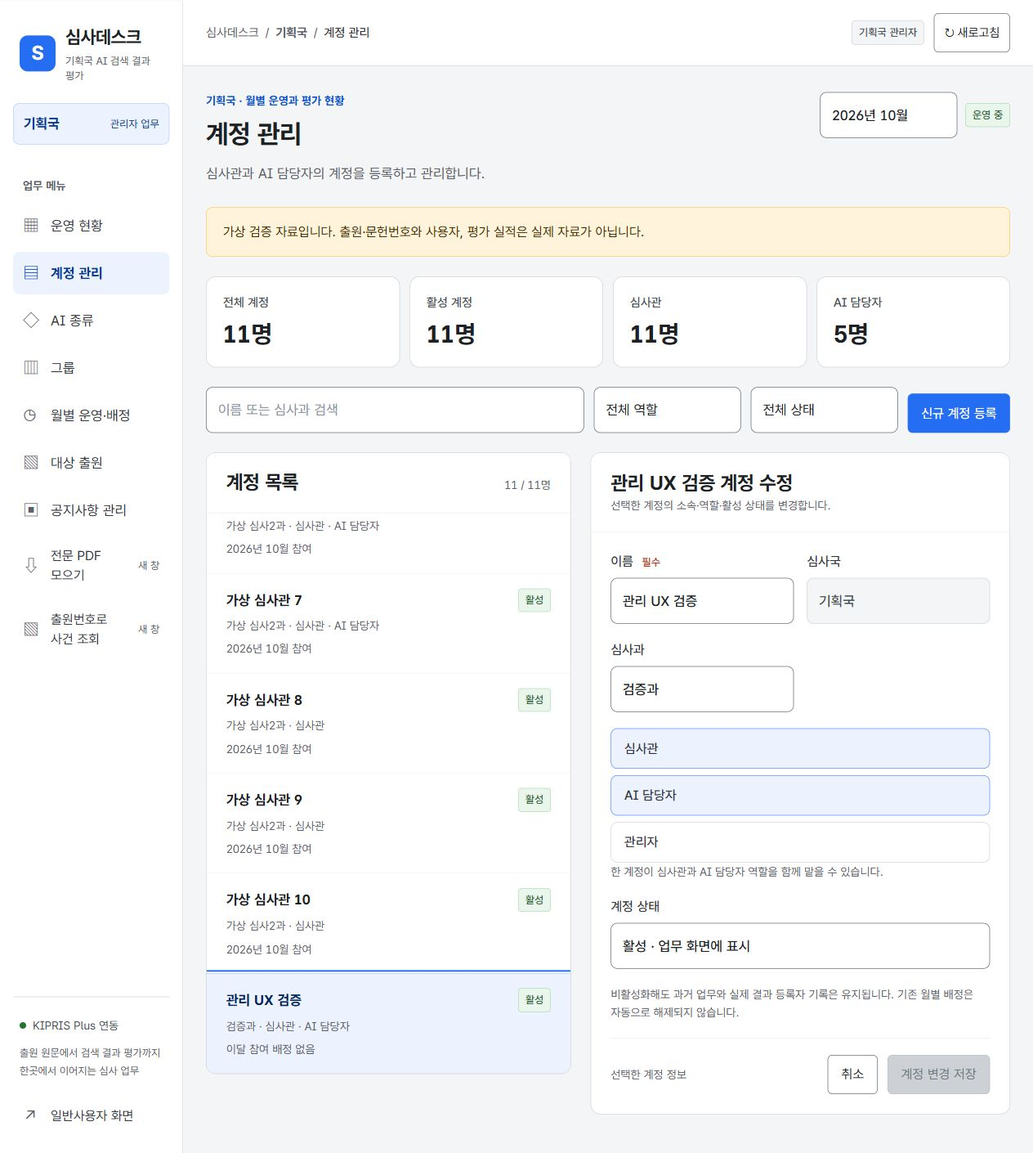
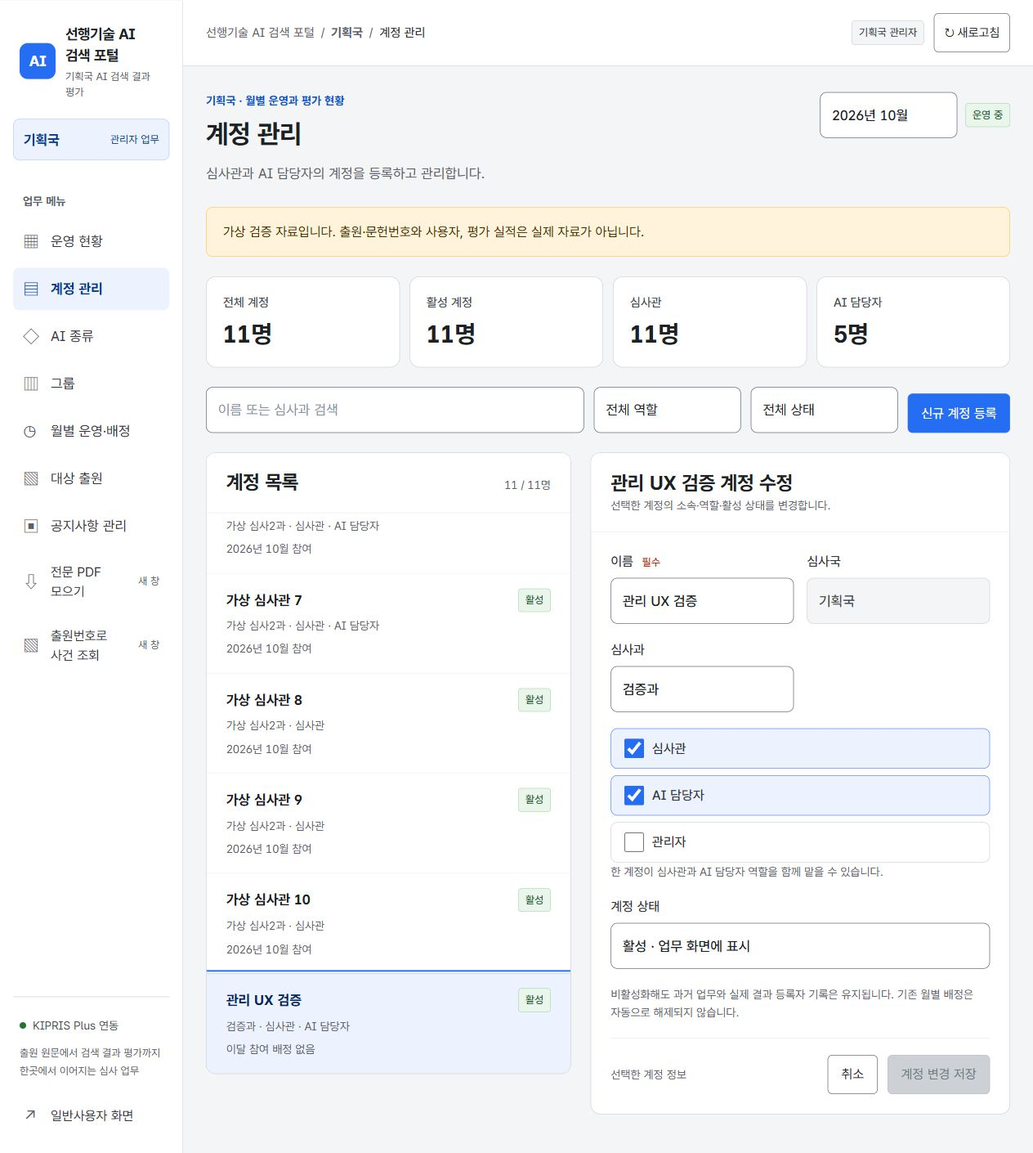
Improve admin account and AI method editing dialogs

diff --git a/app/evaluation/admin-workspace.tsx b/app/evaluation/admin-workspace.tsx
@@ -1,6 +1,6 @@
 'use client';
 
-import { useEffect, useMemo, useState } from 'react';
+import { useEffect, useMemo, useRef, useState } from 'react';
 import {
   caseStatus, emptyMonth, getStatistics,
   type EvaluationAction, type EvaluationCase, type EvaluationGroup, type EvaluationState,
@@ -9,6 +9,7 @@ import {
 import { getAdminReadiness } from '@/app/lib/admin-guidance';
 import { exportWorkbook } from '@/app/lib/export-workbook';
 import type { Bureau } from '@/app/lib/bureaus';
+import AccessibleDialog from '@/app/components/accessible-dialog';
 import NoticeManager from './notice-manager';
 import './admin.css';
 
@@ -28,8 +29,9 @@ export type AdminProps = {
   save: Save; dirty: (value: boolean) => void; hasUnsaved: boolean;
   section: AdminSection; onNavigate: (section: AdminSection) => void;
   selectMonth: (id: string) => void; notify: (message: string) => void;
+  saveFeedback?: React.ReactNode;
 };
-type FormProps = Pick<AdminProps, 'state' | 'month' | 'bureau' | 'busy' | 'save' | 'dirty' | 'hasUnsaved' | 'onNavigate'>;
+type FormProps = Pick<AdminProps, 'state' | 'month' | 'bureau' | 'busy' | 'save' | 'dirty' | 'hasUnsaved' | 'onNavigate' | 'saveFeedback'>;
 const roles: { value: Role; label: string }[] = [{ value: 'examiner', label: '심사관' }, { value: 'ai', label: 'AI 담당자' }, { value: 'admin', label: '관리자' }];
 const percent = (value: number | null) => value === null ? '—' : `${(value * 100).toFixed(1)}%`;
 const monthLabel = (id: string) => `${id.slice(0, 4)}년 ${Number(id.slice(5))}월`;
@@ -89,39 +91,135 @@ function AccountManager(props: FormProps) {
   function open(id: string) { if (confirmDiscard(hasUnsaved)) { dirty(false); setEditing(id); } }
   return <>
     <div className="adm-metrics"><Metric label="전체 계정" value={`${state.users.length}명`} /><Metric label="활성 계정" value={`${state.users.filter((user) => user.active).length}명`} /><Metric label="심사관" value={`${state.users.filter((user) => user.roles.includes('examiner')).length}명`} /><Metric label="AI 담당자" value={`${state.users.filter((user) => user.roles.includes('ai')).length}명`} /></div>
-    <div className="adm-toolbar"><div className="adm-search"><label className="sr-only" htmlFor="adm-account-search">이름 또는 심사과 검색</label><input id="adm-account-search" className="krds-input" placeholder="이름 또는 심사과 검색" value={query} onChange={(event) => setQuery(event.target.value)} /></div><select className="krds-form-select adm-filter" aria-label="계정 역할 필터" value={role} onChange={(event) => setRole(event.target.value)}><option value="all">전체 역할</option>{roles.map((entry) => <option key={entry.value} value={entry.value}>{entry.label}</option>)}</select><select className="krds-form-select adm-filter" aria-label="계정 활성 상태 필터" value={status} onChange={(event) => setStatus(event.target.value)}><option value="all">전체 상태</option><option value="active">활성</option><option value="inactive">비활성</option></select><Button primary disabled={busy} onClick={() => open('new')}>신규 계정 등록</Button></div>
-    <div className="adm-split"><section className="adm-list"><div className="adm-list-head"><h2>계정 목록</h2><span className="adm-secondary">{visible.length} / {state.users.length}명</span></div>
-      {visible.length ? visible.map((user) => <button type="button" className={`adm-list-item ${editing === user.id ? 'is-selected' : ''}`} key={user.id} disabled={busy} aria-pressed={editing === user.id} onClick={() => open(user.id)}><span className="adm-name">{user.name}<Pill tone={user.active ? 'is-active' : 'is-inactive'}>{user.active ? '활성' : '비활성'}</Pill></span><span className="adm-secondary">{user.division || '심사과 미입력'} · {user.roles.map((value) => roles.find((entry) => entry.value === value)?.label).join(' · ')}</span><span className="adm-meta">{month.participants.some((entry) => entry.userId === user.id) ? `${monthLabel(month.id)} 참여` : '이달 참여 배정 없음'}</span></button>) : <Empty title={state.users.length ? '검색 조건에 맞는 계정이 없습니다.' : '등록된 계정이 없습니다.'} actions={state.users.length ? <Button onClick={() => { setQuery(''); setRole('all'); setStatus('all'); }}>검색 조건 초기화</Button> : undefined} />}
-    </section><section className="adm-editor">{editing === 'new' || selected ? <AccountEditor key={editing} user={selected} bureau={props.bureau} busy={busy} save={props.save} dirty={dirty} onClose={() => { dirty(false); setEditing(null); }} /> : <Empty title="관리할 계정을 선택하세요.">목록에서 이름을 선택하면 해당 계정의 소속과 역할을 수정할 수 있습니다.</Empty>}</section></div>
+    <div className="adm-toolbar"><div className="adm-search"><label className="sr-only" htmlFor="adm-account-search">이름 또는 심사과 검색</label><input id="adm-account-search" className="krds-input" placeholder="이름 또는 심사과 검색" value={query} onChange={(event) => setQuery(event.target.value)} /></div><select className="krds-form-select adm-filter" aria-label="계정 역할 필터" value={role} onChange={(event) => setRole(event.target.value)}><option value="all">전체 역할</option>{roles.map((entry) => <option key={entry.value} value={entry.value}>{entry.label}</option>)}</select><select className="krds-form-select adm-filter" aria-label="계정 활성 상태 필터" value={status} onChange={(event) => setStatus(event.target.value)}><option value="all">전체 상태</option><option value="active">활성</option><option value="inactive">비활성</option></select><Button primary disabled={busy} aria-haspopup="dialog" onClick={() => open('new')}>신규 계정 등록</Button></div>
+    <section className="adm-list adm-account-list"><div className="adm-list-head"><h2>계정 목록</h2><span className="adm-secondary">{visible.length} / {state.users.length}명</span></div>
+      {visible.length ? visible.map((user) => <button type="button" className={`adm-list-item ${editing === user.id ? 'is-selected' : ''}`} key={user.id} disabled={busy} aria-haspopup="dialog" onClick={() => open(user.id)}><span className="adm-name">{user.name}<Pill tone={user.active ? 'is-active' : 'is-inactive'}>{user.active ? '활성' : '비활성'}</Pill></span><span className="adm-secondary">{user.division || '심사과 미입력'} · {user.roles.map((value) => roles.find((entry) => entry.value === value)?.label).join(' · ')}</span><span className="adm-meta">{month.participants.some((entry) => entry.userId === user.id) ? `${monthLabel(month.id)} 참여` : '이달 참여 배정 없음'}</span></button>) : <Empty title={state.users.length ? '검색 조건에 맞는 계정이 없습니다.' : '등록된 계정이 없습니다.'} actions={state.users.length ? <Button onClick={() => { setQuery(''); setRole('all'); setStatus('all'); }}>검색 조건 초기화</Button> : undefined} />}
+    </section>
+    {(editing === 'new' || selected) && <AccountEditor key={editing} user={selected} bureau={props.bureau} busy={busy} save={props.save} dirty={dirty} saveFeedback={props.saveFeedback} onClose={() => { dirty(false); setEditing(null); }} />}
   </>;
 }
 
-export function AccountEditor({ user, bureau, busy, save, dirty, onClose }: {
-  user?: EvaluationUser; bureau?: Bureau; busy: boolean; save: Save; dirty: (value: boolean) => void; onClose: () => void;
+export function AccountEditor({ user, bureau, busy, save, dirty, onClose, saveFeedback }: {
+  user?: EvaluationUser; bureau?: Bureau; busy: boolean; save: Save; dirty: (value: boolean) => void; onClose: () => void; saveFeedback?: React.ReactNode;
 }) {
   const original = useMemo(() => user ? { ...user, bureau: bureau || user.bureau } : { name: '', bureau: bureau || '', division: '', roles: ['examiner'] as Role[], active: true }, [user, bureau]);
   const [form, setForm] = useState(original);
+  const [submitFailed, setSubmitFailed] = useState(false);
+  const feedback = useRef<HTMLDivElement>(null);
   const changed = !same(form, original);
   useEffect(() => dirty(changed), [changed, dirty]);
+  useEffect(() => { if (submitFailed && !busy) feedback.current?.focus(); }, [submitFailed, busy]);
   function update(patch: Partial<typeof form>) { setForm((previous) => ({ ...previous, ...patch })); dirty(true); }
-  async function submit(event: React.FormEvent) { event.preventDefault(); if (await save({ type: 'saveUser', user: { ...form, bureau: bureau || form.bureau } }, user ? `${form.name} 계정 정보를 저장했습니다.` : `${form.name} 계정을 등록했습니다. 월별 운영·배정에서 참여 업무를 정해 주세요.`)) { dirty(false); onClose(); } }
-  return <><EditorHeader title={user ? `${user.name} 계정 수정` : '신규 계정 등록'}>{user ? '선택한 계정의 소속·역할·활성 상태를 변경합니다.' : '새 계정의 정보를 입력하세요. 역할은 여러 개 선택할 수 있습니다.'}</EditorHeader><form className="adm-editor-body" onSubmit={(event) => void submit(event)}><div className="adm-form-grid"><label className="adm-field">이름 <span className="adm-required">필수</span><input className="krds-input" required maxLength={200} disabled={busy} value={form.name} onChange={(event) => update({ name: event.target.value })} /></label><label className="adm-field">심사국<input className="krds-input" maxLength={200} disabled={busy} readOnly={Boolean(bureau)} value={bureau || form.bureau} onChange={(event) => update({ bureau: event.target.value })} /></label><label className="adm-field">심사과<input className="krds-input" maxLength={200} disabled={busy} value={form.division} onChange={(event) => update({ division: event.target.value })} /></label></div><fieldset className="adm-fieldset" disabled={busy}><legend className="adm-label">역할 <span className="adm-required">1개 이상</span></legend><div className="adm-check-list">{roles.map((role) => <label key={role.value} className="adm-check-row"><input type="checkbox" checked={form.roles.includes(role.value)} onChange={(event) => update({ roles: event.target.checked ? [...form.roles, role.value] : form.roles.filter((entry) => entry !== role.value) })} /><span>{role.label}</span></label>)}</div><p className="adm-secondary">한 계정이 심사관과 AI 담당자 역할을 함께 맡을 수 있습니다.</p></fieldset><label className="adm-field">계정 상태<select className="krds-form-select" disabled={busy} value={form.active ? 'active' : 'inactive'} onChange={(event) => update({ active: event.target.value === 'active' })}><option value="active">활성 · 업무 화면에 표시</option><option value="inactive">비활성 · 신규 접속 제한</option></select></label><p className="adm-secondary">비활성화해도 과거 업무와 실제 결과 등록자 기록은 유지됩니다. 기존 월별 배정은 자동으로 해제되지 않습니다.</p><div className="adm-actions"><span className={`adm-dirty ${changed ? 'is-dirty' : ''}`}>{changed ? '저장하지 않은 변경 있음' : user ? '선택한 계정 정보' : '등록할 계정 정보를 입력하세요.'}</span><Button disabled={busy} onClick={() => { if (confirmDiscard(changed)) onClose(); }}>취소</Button><button type="submit" className="krds-btn medium ev-button primary" disabled={busy || !form.name.trim() || !form.roles.length || (Boolean(user) && !changed)}>{user ? '계정 변경 저장' : '계정 등록'}</button></div></form></>;
+  function requestClose() { if (!busy && confirmDiscard(changed)) onClose(); }
+  async function submit(event: React.FormEvent) {
+    event.preventDefault();
+    if (busy || !form.name.trim() || !form.roles.length) return;
+    setSubmitFailed(false);
+    if (await save({ type: 'saveUser', user: { ...form, bureau: bureau || form.bureau } }, user ? `${form.name} 계정 정보를 저장했습니다.` : `${form.name} 계정을 등록했습니다. 월별 운영·배정에서 참여 업무를 정해 주세요.`)) {
+      dirty(false); onClose();
+    } else setSubmitFailed(true);
+  }
+  return <AccessibleDialog labelledBy="adm-account-dialog-title" className="adm-form-modal" onClose={requestClose}>
+    <header>
+      <div><h2 id="adm-account-dialog-title">{user ? `${user.name} 계정 수정` : '신규 계정 등록'}</h2><p>{user ? '선택한 계정의 소속·역할·활성 상태를 변경합니다.' : '새 계정의 정보를 입력하세요. 역할은 여러 개 선택할 수 있습니다.'}</p></div>
+      <Button disabled={busy} aria-label="계정 편집 닫기" onClick={requestClose}>닫기</Button>
+    </header>
+    <form className="adm-modal-form" onSubmit={submit} aria-busy={busy}>
+      <div className="adm-editor-body adm-modal-fields">
+        {submitFailed && <div ref={feedback} className="adm-modal-feedback" tabIndex={-1}>{saveFeedback || <div className="ev-alert" role="alert"><p>계정을 저장하지 못했습니다. 입력한 내용은 유지되어 있습니다. 잠시 후 다시 시도해 주세요.</p></div>}</div>}
+        <div className="adm-form-grid">
+          <label className="adm-field">이름 <span className="adm-required">필수</span><input className="krds-input" data-dialog-autofocus required maxLength={200} disabled={busy} value={form.name} onChange={(event) => update({ name: event.target.value })} /></label>
+          <label className="adm-field">심사국<input className="krds-input" maxLength={200} disabled={busy} readOnly={Boolean(bureau)} value={bureau || form.bureau} onChange={(event) => update({ bureau: event.target.value })} /></label>
+          <label className="adm-field">심사과<input className="krds-input" maxLength={200} disabled={busy} value={form.division} onChange={(event) => update({ division: event.target.value })} /></label>
+        </div>
+        <fieldset className="adm-fieldset" disabled={busy}><legend className="adm-label">역할 <span className="adm-required">1개 이상</span></legend><div className="adm-check-list">{roles.map((role) => <label key={role.value} className="adm-check-row"><input type="checkbox" checked={form.roles.includes(role.value)} onChange={(event) => update({ roles: event.target.checked ? [...form.roles, role.value] : form.roles.filter((entry) => entry !== role.value) })} /><span>{role.label}</span></label>)}</div><p className="adm-secondary">한 계정이 심사관과 AI 담당자 역할을 함께 맡을 수 있습니다.</p></fieldset>
+        <label className="adm-field">계정 상태<select className="krds-form-select" disabled={busy} value={form.active ? 'active' : 'inactive'} onChange={(event) => update({ active: event.target.value === 'active' })}><option value="active">활성 · 업무 화면에 표시</option><option value="inactive">비활성 · 신규 접속 제한</option></select></label>
+        <p className="adm-secondary">비활성화해도 과거 업무와 실제 결과 등록자 기록은 유지됩니다. 기존 월별 배정은 자동으로 해제되지 않습니다.</p>
+      </div>
+      <footer className="adm-actions adm-modal-actions"><span className={`adm-dirty ${changed ? 'is-dirty' : ''}`}>{changed ? '저장하지 않은 변경 있음' : user ? '선택한 계정 정보' : '등록할 계정 정보를 입력하세요.'}</span><Button disabled={busy} onClick={requestClose}>취소</Button><button type="submit" className="krds-btn medium ev-button primary" disabled={busy || !form.name.trim() || !form.roles.length || (Boolean(user) && !changed)}>{busy ? '저장 중…' : user ? '계정 변경 저장' : '계정 등록'}</button></footer>
+    </form>
+  </AccessibleDialog>;
 }
 
 function MethodManager(props: FormProps) {
   const { state, month, busy, dirty, hasUnsaved, onNavigate } = props;
   const [query, setQuery] = useState(''); const [status, setStatus] = useState('all'); const [editing, setEditing] = useState<string | null>(null);
-  const ai = state.methods.filter((method) => method.kind === 'ai'); const selected = state.methods.find((method) => method.id === editing);
+  const ai = state.methods.filter((method) => method.kind === 'ai');
+  const comparisonMethods = state.methods.filter((method) => method.kind === 'baseline');
+  const selected = state.methods.find((method) => method.id === editing);
   const visible = ai.filter((method) => (!queryValue(query) || method.name.toLocaleLowerCase().includes(queryValue(query))) && (status === 'all' || method.active === (status === 'active')));
-  function open(id: string) { if (confirmDiscard(hasUnsaved)) { dirty(false); setEditing(id); } }
-  return <><div className="adm-section-intro"><p>AI 종류를 등록한 뒤 <button type="button" className="adm-text-link" onClick={() => onNavigate('month')}>월별 운영·배정</button>에서 비교 참여와 그룹별 담당자를 설정하세요.</p></div><div className="adm-metrics"><Metric label="등록된 AI 종류" value={`${ai.length}개`} /><Metric label="활성 AI" value={`${ai.filter((method) => method.active).length}개`} /><Metric label="이달 비교 AI" value={`${ai.filter((method) => month.methodIds.includes(method.id)).length}개`} /><Metric label="순위 비교 전용" value={`${state.methods.filter((method) => method.kind === 'baseline').length}개`} hint="선행기술조사 등" /></div><div className="adm-toolbar"><div className="adm-search"><label className="sr-only" htmlFor="adm-method-search">AI 이름 검색</label><input id="adm-method-search" className="krds-input" placeholder="AI 이름 검색" value={query} onChange={(event) => setQuery(event.target.value)} /></div><select className="krds-form-select adm-filter" aria-label="AI 활성 상태 필터" value={status} onChange={(event) => setStatus(event.target.value)}><option value="all">전체 상태</option><option value="active">활성</option><option value="inactive">비활성</option></select><Button primary disabled={busy} onClick={() => open('new')}>AI 종류 추가</Button></div><div className="adm-split"><section className="adm-list"><div className="adm-list-head"><h2>AI 종류 목록</h2><span className="adm-secondary">{visible.length}개</span></div>{visible.length ? visible.map((method) => <button type="button" key={method.id} className={`adm-list-item ${editing === method.id ? 'is-selected' : ''}`} disabled={busy} aria-pressed={editing === method.id} onClick={() => open(method.id)}><span className="adm-name">{method.name}<Pill tone={method.active ? 'is-active' : 'is-inactive'}>{method.active ? '활성' : '비활성'}</Pill></span><span className="adm-secondary">{month.methodIds.includes(method.id) ? '이달 비교 방식에 포함' : '이달 비교 방식에서 제외'}</span><span className="adm-meta">담당 배정 {month.assignments.filter((entry) => entry.methodId === method.id).length}개 그룹</span></button>) : <Empty title={ai.length ? '검색 조건에 맞는 AI가 없습니다.' : '등록된 AI 종류가 없습니다.'} actions={ai.length ? <Button onClick={() => { setQuery(''); setStatus('all'); }}>검색 조건 초기화</Button> : undefined} />}<div className="adm-list-foot"><strong className="adm-label">순위 비교 전용 방식</strong>{state.methods.filter((method) => method.kind === 'baseline').map((method) => <button key={method.id} type="button" className={`adm-list-item ${editing === method.id ? 'is-selected' : ''}`} disabled={busy} aria-pressed={editing === method.id} onClick={() => open(method.id)}><span className="adm-name">{method.name}<Pill>순위 전용</Pill></span><span className="adm-secondary">문헌 입력·AI 입력 대기 집계에서 제외</span></button>)}</div></section><section className="adm-editor">{editing === 'new' || selected ? <MethodEditor key={editing} method={selected} busy={busy} dirty={dirty} save={props.save} onClose={() => { dirty(false); setEditing(null); }} /> : <Empty title="관리할 AI 종류를 선택하세요.">등록된 AI를 선택하면 이름과 활성 상태를 변경할 수 있습니다.</Empty>}</section></div></>;
+  function open(id: string) { if (!busy && confirmDiscard(hasUnsaved)) { dirty(false); setEditing(id); } }
+  const saveMethod: Save = async (action, message) => {
+    const saved = await props.save(action, message);
+    if (saved) { setQuery(''); setStatus('all'); }
+    return saved;
+  };
+  return <>
+    <div className="adm-ai-intro">
+      <p><strong>ChatGPT·클로드처럼 검색에 사용할 AI 도구를 등록하세요.</strong></p>
+      <p>추가한 AI는 <button type="button" className="adm-text-link" onClick={() => onNavigate('month')}>월별 운영·배정</button>에서 비교 대상으로 선택하고 그룹별 담당자를 배정할 수 있습니다.</p>
+      <div className="adm-ai-summary"><span>등록된 AI <strong>{ai.length}개</strong></span><span>활성 AI <strong>{ai.filter((method) => method.active).length}개</strong></span><span>이달 비교 참여 <strong>{ai.filter((method) => month.methodIds.includes(method.id)).length}개</strong></span></div>
+    </div>
+    <div className="adm-toolbar">
+      <div className="adm-search"><label className="sr-only" htmlFor="adm-method-search">AI 이름 검색</label><input id="adm-method-search" className="krds-input" placeholder="AI 이름으로 검색하세요" value={query} onChange={(event) => setQuery(event.target.value)} /></div>
+      <select className="krds-form-select adm-filter" aria-label="AI 활성 상태 필터" value={status} onChange={(event) => setStatus(event.target.value)}><option value="all">전체 상태</option><option value="active">활성</option><option value="inactive">비활성</option></select>
+      <Button primary disabled={busy} aria-haspopup="dialog" onClick={() => open('new')}>AI 종류 추가</Button>
+    </div>
+    <section className="adm-ai-catalog" aria-labelledby="adm-ai-catalog-title">
+      <div className="adm-ai-catalog-head"><h2 id="adm-ai-catalog-title">등록된 AI 종류</h2><span className="adm-secondary">{visible.length} / {ai.length}개</span></div>
+      {visible.length ? <div className="adm-ai-grid">{visible.map((method) => <button type="button" key={method.id} className={'adm-ai-card ' + (method.active ? '' : 'is-inactive')} disabled={busy} aria-haspopup="dialog" aria-label={'AI 종류 ' + method.name + ' 수정'} onClick={() => open(method.id)}>
+        <span className="adm-ai-card-top"><span className="adm-ai-mark" aria-hidden="true">AI</span><Pill tone={method.active ? 'is-active' : 'is-inactive'}>{method.active ? '활성' : '비활성'}</Pill></span>
+        <strong className="adm-ai-name">{method.name}</strong>
+        <span className={'adm-ai-month ' + (month.methodIds.includes(method.id) ? 'is-included' : '')}>{month.methodIds.includes(method.id) ? '이달 비교 참여' : '이달 비교 미참여'}</span>
+        <span className="adm-secondary">담당 배정 {month.assignments.filter((entry) => entry.methodId === method.id).length}개 그룹</span>
+        <span className="adm-ai-edit">수정하기 <span aria-hidden="true">→</span></span>
+      </button>)}</div> : <Empty title={ai.length ? '검색 조건에 맞는 AI가 없습니다.' : '등록된 AI 종류가 없습니다.'} actions={ai.length ? <Button onClick={() => { setQuery(''); setStatus('all'); }}>검색 조건 초기화</Button> : undefined}>{!ai.length && 'AI 종류 추가를 눌러 ChatGPT·클로드 같은 AI 도구를 등록하세요.'}</Empty>}
+    </section>
+    {comparisonMethods.length > 0 && <section className="adm-ai-comparisons" aria-labelledby="adm-ai-comparisons-title">
+      <div><h2 id="adm-ai-comparisons-title">순위 비교 전용 방식</h2><p className="adm-secondary">AI 검색 결과와 함께 순위를 비교할 조사 방식입니다.</p></div>
+      <div className="adm-ai-comparison-list">{comparisonMethods.map((method) => <button key={method.id} type="button" className="adm-ai-comparison" disabled={busy} aria-haspopup="dialog" aria-label={'비교 방식 ' + method.name + ' 수정'} onClick={() => open(method.id)}><strong>{method.name}</strong><Pill>순위 비교 전용</Pill><Pill tone={method.active ? 'is-active' : 'is-inactive'}>{method.active ? '활성' : '비활성'}</Pill><span className="adm-ai-edit">수정하기 <span aria-hidden="true">→</span></span></button>)}</div>
+    </section>}
+    {(editing === 'new' || selected) && <MethodEditor key={editing} method={selected} busy={busy} dirty={dirty} save={saveMethod} saveFeedback={props.saveFeedback} onClose={() => { dirty(false); setEditing(null); }} />}
+  </>;
 }
 
-export function MethodEditor({ method, busy, dirty, save, onClose }: { method?: InvestigationMethod; busy: boolean; dirty: (value: boolean) => void; save: Save; onClose: () => void }) {
-  const original = useMemo(() => method || { name: '', kind: 'ai' as const, active: true }, [method]); const [form, setForm] = useState(original); const changed = !same(form, original);
+export function MethodEditor({ method, busy, dirty, save, onClose, saveFeedback }: {
+  method?: InvestigationMethod; busy: boolean; dirty: (value: boolean) => void; save: Save; onClose: () => void; saveFeedback?: React.ReactNode;
+}) {
+  const original = useMemo(() => method || { name: '', kind: 'ai' as const, active: true }, [method]);
+  const [form, setForm] = useState(original);
+  const [submitFailed, setSubmitFailed] = useState(false);
+  const feedback = useRef<HTMLDivElement>(null);
+  const changed = !same(form, original);
+  const isBaseline = form.kind === 'baseline';
   useEffect(() => dirty(changed), [changed, dirty]);
-  async function submit(event: React.FormEvent) { event.preventDefault(); if (await save({ type: 'saveMethod', method: form }, method ? `${form.name} 조사 방식을 저장했습니다.` : `${form.name} AI 종류를 추가했습니다. 월별 운영·배정에서 비교 방식으로 선택해 주세요.`)) { dirty(false); onClose(); } }
-  return <><EditorHeader title={method ? `${method.name} 수정` : '새 AI 종류 추가'}>{method?.kind === 'baseline' ? '순위 비교 전용 방식입니다. 문헌 입력을 요구하지 않습니다.' : 'AI 종류와 담당자는 서로 다릅니다. 담당자는 월별 운영에서 정합니다.'}</EditorHeader><form className="adm-editor-body" onSubmit={(event) => void submit(event)}><label className="adm-field">{method?.kind === 'baseline' ? '조사 방식 이름' : 'AI 이름'} <span className="adm-required">필수</span><input className="krds-input" required disabled={busy} maxLength={200} placeholder="예: ChatGPT, 클로드, 새 검색 AI" value={form.name} onChange={(event) => { setForm((previous) => ({ ...previous, name: event.target.value })); dirty(true); }} /></label><label className="adm-field">활성 상태<select className="krds-form-select" disabled={busy} value={form.active ? 'active' : 'inactive'} onChange={(event) => { setForm((previous) => ({ ...previous, active: event.target.value === 'active' })); dirty(true); }}><option value="active">활성</option><option value="inactive">비활성</option></select></label><p className="adm-secondary">이미 선택한 월별 비교 방식은 활성 상태 변경만으로 해제되지 않습니다. 월별 운영·배정에서 직접 확인해 주세요.</p><div className="adm-actions"><span className={`adm-dirty ${changed ? 'is-dirty' : ''}`}>{changed ? '저장하지 않은 변경 있음' : '선택한 조사 방식 정보'}</span><Button disabled={busy} onClick={() => { if (confirmDiscard(changed)) onClose(); }}>취소</Button><button type="submit" className="krds-btn medium ev-button primary" disabled={busy || !form.name.trim() || (Boolean(method) && !changed)}>{method ? '변경 저장' : 'AI 종류 추가'}</button></div></form></>;
+  useEffect(() => { if (submitFailed && !busy) feedback.current?.focus(); }, [submitFailed, busy]);
+  function update(patch: Partial<Pick<InvestigationMethod, 'name' | 'active'>>) { setForm((previous) => ({ ...previous, ...patch })); dirty(true); }
+  function requestClose() { if (!busy && confirmDiscard(changed)) onClose(); }
+  async function submit(event: React.FormEvent) {
+    event.preventDefault();
+    if (busy || !form.name.trim()) return;
+    setSubmitFailed(false);
+    if (await save({ type: 'saveMethod', method: form }, method ? form.name + (isBaseline ? ' 비교 방식을 저장했습니다.' : ' AI 종류를 저장했습니다.') : form.name + ' AI 종류를 추가했습니다. 월별 운영·배정에서 비교 대상으로 선택해 주세요.')) {
+      dirty(false); onClose();
+    } else setSubmitFailed(true);
+  }
+  return <AccessibleDialog labelledBy="adm-method-dialog-title" className="adm-form-modal adm-ai-modal" onClose={requestClose}>
+    <header>
+      <div><h2 id="adm-method-dialog-title">{method ? method.name + ' 수정' : 'AI 종류 추가'}</h2><p>{isBaseline ? 'AI 검색 결과와 함께 순위를 비교할 조사 방식입니다.' : 'ChatGPT·클로드처럼 검색에 사용할 AI 도구의 이름을 입력하세요.'}</p></div>
+      <Button disabled={busy} aria-label={isBaseline ? '비교 방식 편집 닫기' : 'AI 종류 편집 닫기'} onClick={requestClose}>닫기</Button>
+    </header>
+    <form className="adm-modal-form" onSubmit={submit} aria-busy={busy}>
+      <div className="adm-editor-body adm-modal-fields">
+        {submitFailed && <div ref={feedback} className="adm-modal-feedback" tabIndex={-1}>{saveFeedback || <div className="ev-alert" role="alert"><p>저장하지 못했습니다. 입력한 내용은 유지되어 있습니다. 잠시 후 다시 시도해 주세요.</p></div>}</div>}
+        <label className="adm-field">{isBaseline ? '비교 방식 이름' : 'AI 종류 이름'} <span className="adm-required">필수</span><input className="krds-input" data-dialog-autofocus required disabled={busy} maxLength={200} placeholder={isBaseline ? '예: 선행기술조사' : '예: ChatGPT, 클로드'} value={form.name} onChange={(event) => update({ name: event.target.value })} /></label>
+        <label className="adm-field">활성 상태<select className="krds-form-select" disabled={busy} value={form.active ? 'active' : 'inactive'} onChange={(event) => update({ active: event.target.value === 'active' })}><option value="active">활성</option><option value="inactive">비활성</option></select></label>
+        <p className="adm-secondary">{isBaseline ? '순위 비교에 사용하며 AI 검색 문헌을 입력할 필요가 없습니다.' : '등록한 AI를 월별 운영·배정에서 비교 대상으로 선택하고 그룹별 AI 담당자를 정하세요.'}</p>
+        <p className="adm-secondary">이미 선택한 월별 비교 방식은 활성 상태 변경만으로 해제되지 않습니다. 월별 운영·배정에서 직접 확인해 주세요.</p>
+      </div>
+      <footer className="adm-actions adm-modal-actions"><span className={'adm-dirty ' + (changed ? 'is-dirty' : '')}>{changed ? '저장하지 않은 변경 있음' : method ? '등록된 정보' : '추가할 AI 이름을 입력하세요.'}</span><Button disabled={busy} onClick={requestClose}>취소</Button><button type="submit" className="krds-btn medium ev-button primary" disabled={busy || !form.name.trim() || (Boolean(method) && !changed)}>{busy ? '저장 중…' : method ? '변경 저장' : 'AI 종류 추가'}</button></footer>
+    </form>
+  </AccessibleDialog>;
 }
 
 function GroupManager(props: FormProps) {

diff --git a/app/evaluation/workspace.tsx b/app/evaluation/workspace.tsx
@@ -200,20 +200,20 @@ export default function EvaluationWorkspace({ admin = false, bureau }: { admin?:
   const activeAdmin = ADMIN_NAV.find((entry) => entry.id === adminSection) || ADMIN_NAV[0];
   const title = admin ? activeAdmin.label : view === 'ai' ? 'AI 검색 결과 입력' : '내 심사 업무';
   const loggedIn = admin || Boolean(user);
+  const errorFeedback = sessionReady && error && <div className="ev-alert" role="alert"><p>{error}</p>{(dirty || conflict) && <div className="ev-actions" style={{ marginTop: 12 }}><button type="button" className="krds-btn medium ev-button" onClick={exportInput}>현재 입력 보관 파일 저장</button>{conflict && <button type="button" className="krds-btn medium ev-button" onClick={refreshLatest}>입력 버리고 최신 자료 불러오기</button>}</div>}</div>;
   return <div className="ev"><a className="ev-skip-link" href="#evaluation-main">본문 바로가기</a><div className="ev-shell">
     <aside className="ev-sidebar"><a className="ev-brand" href={bureauPath(bureau)}><span className="ev-brand-mark" aria-hidden="true">AI</span><span><strong>선행기술 AI 검색 포털</strong><small>{bureau ? `${bureau} AI 검색 결과 평가` : 'AI 검색 결과 평가'}</small></span></a>{bureau && <div className="ev-bureau-context"><strong>{bureau}</strong><span>{admin ? '관리자 업무' : '국별 평가 업무'}</span></div>}
       <div className="ev-side-label">업무 메뉴</div><nav aria-label="주요 메뉴">
         {admin ? <>{ADMIN_NAV.map((entry) => <button type="button" key={entry.id} className={`ev-nav ${adminSection === entry.id ? 'active' : ''}`} aria-current={adminSection === entry.id ? 'page' : undefined} disabled={busy || !sessionReady} onClick={() => navigate(() => { setAdminSection(entry.id); setView(entry.id === 'overview' ? 'stats' : 'settings'); })}><span aria-hidden="true">{entry.icon}</span>{entry.label}</button>)}</> : <><button className={`ev-nav ${view === 'review' ? 'active' : ''}`} aria-current={view === 'review' ? 'page' : undefined} onClick={() => navigate(() => setView('review'))}><span>▤</span>내 심사 업무</button>{user?.roles.includes('ai') && <button className={`ev-nav ${view === 'ai' ? 'active' : ''}`} aria-current={view === 'ai' ? 'page' : undefined} onClick={() => navigate(() => setView('ai'))}><span>⌕</span>AI 담당 업무</button>}</>}
-        <a className="ev-nav" href="/documents" target="_blank" rel="noopener noreferrer" aria-label="전문 PDF 모으기, 새 창"><span aria-hidden="true">⇩</span>전문 PDF 모으기 <span className="ev-new-window">새 창</span></a><a className="ev-nav" href="/patent" target="_blank" rel="noopener noreferrer" aria-label="출원번호로 사건 조회, 새 창"><span aria-hidden="true">▧</span>출원번호로 사건 조회 <span className="ev-new-window">새 창</span></a>
       </nav><div className="ev-side-bottom"><div className="ev-connection"><span className="ev-dot" />KIPRIS Plus 연동</div><p className="ev-side-note">출원 원문에서 검색 결과 평가까지<br />한곳에서 이어지는 심사 업무</p>{(admin || !user) && <a className="ev-nav" href={bureauPath(bureau, !admin)}><span>↗</span>{admin ? '일반사용자 화면' : '관리자용 진입점'}</a>}</div>
     </aside>
     <main className="ev-main" id="evaluation-main" tabIndex={-1}><header className="ev-topbar"><div className="ev-breadcrumb">선행기술 AI 검색 포털 {bureau && <><span> / </span><strong>{bureau}</strong></>}<span> / </span><b>{loggedIn ? title : '업무 시작'}</b></div><div className="ev-top-actions">{admin ? <Badge>{bureau ? `${bureau} 관리자` : '관리자용 화면'}</Badge> : user ? <><div className="ev-top-user"><span className="ev-avatar">{user.name.slice(0, 1)}</span><span>{user.division} · <b>{user.name}</b></span></div><button className="krds-btn medium ev-button link" onClick={() => navigate(() => { setUserId(''); setView('review'); })}>사용자 변경</button></> : <span className="ev-muted">AI 검색 결과 평가 시스템</span>}<button className="krds-btn medium ev-button tiny" disabled={!sessionReady || loading || busy} onClick={refreshLatest} aria-label="최신 자료 새로고침">↻ 새로고침</button></div></header>
-      <div className="ev-content">{sessionReady && error && <div className="ev-alert" role="alert"><p>{error}</p>{(dirty || conflict) && <div className="ev-actions" style={{ marginTop: 12 }}><button className="krds-btn medium ev-button" onClick={exportInput}>현재 입력 보관 파일 저장</button>{conflict && <button className="krds-btn medium ev-button" onClick={refreshLatest}>입력 버리고 최신 자료 불러오기</button>}</div>}</div>}{sessionReady && notice && <div className="ev-alert success" role="status">{notice}</div>}
+      <div className="ev-content">{errorFeedback}{sessionReady && notice && <div className="ev-alert success" role="status">{notice}</div>}
         {!sessionReady || loading && !state ? <Empty title="업무 자료를 불러오고 있습니다." /> : !state ? <Empty title="자료에 연결할 수 없습니다."><button className="krds-btn medium ev-button" onClick={() => void load()}>다시 시도</button></Empty> : !loggedIn ? <div className="ev-login">{!bureau && <BureauEntryLinks />}<div className="ev-login-intro"><div><div className="ev-eyebrow">{bureau ? `${bureau} · AI 검색 결과 평가` : 'AI 검색 결과 평가'}</div><h1>검색 결과를 등록하고<br />문헌을 평가하세요.</h1><p>심사관이 선정한 출원의 전문을 준비하고, AI가 찾은 문헌을 함께 검토합니다. 본인을 선택해 월별 업무를 이어가세요.</p></div><div className="ev-login-art" aria-hidden="true"><div className="ev-paper" /><div className="ev-paper" /><span style={{ color: '#6fa895', fontSize: 27 }}>→</span></div></div><BureauNotice notice={state.notice} bureau={bureau} /><div className="ev-grid2"><Panel title="내 업무 시작하기" description="심사과와 이름을 확인해 본인을 선택하세요."><div className="ev-panel-body"><label>심사과 - 이름<select className="krds-form-select" value={loginUserId} onChange={(event) => setLoginUserId(event.target.value)}><option value="">사용자를 선택하세요</option>{state.users.filter((candidate) => candidate.active).map((candidate) => <option value={candidate.id} key={candidate.id}>{candidate.division || '소속 미지정'} - {candidate.name}</option>)}</select></label><div className="ev-actions end"><button className="krds-btn medium ev-button primary" disabled={!loginUserId} onClick={() => { setUserId(loginUserId); setView(viewForRoles(state.users.find((candidate) => candidate.id === loginUserId)?.roles || [])); }}>업무 시작</button></div>{!state.users.length && <p className="ev-muted" style={{ marginTop: 13 }}>등록된 사용자가 없습니다. <a href={bureauPath(bureau, true)} style={{ color: '#087f78' }}>{bureau ? `${bureau} 관리자 화면` : '관리자 화면'}</a>에서 사용자와 월별 배정을 먼저 설정하세요.</p>}</div></Panel><Panel title="이렇게 진행합니다"><div className="ev-panel-body" style={{ paddingTop: 4 }}>{[['01', '평가 대상 출원 선정', '출원번호를 등록하고 해당 월의 대상을 확정합니다.'], ['02', '전문 준비 · AI 검색 결과 입력', '출원 PDF를 받아 검색하고 특허번호나 논문 정보를 등록합니다.'], ['03', '문헌 평가 · 조사 방식 비교', '점수와 인용여부, 조사 방식별 품질 순위를 기록합니다.']].map(([step, name, text]) => <div className="ev-step" key={step}><span className="ev-step-number">{step}</span><div><h3>{name}</h3><p>{text}</p></div></div>)}</div></Panel></div><p className="ev-login-foot">사용자 선택은 업무 작성자를 정하는 간편 로그인입니다.</p></div> : <>
           <div className="ev-page-heading"><div><p className="ev-eyebrow">{bureau && `${bureau} · `}{admin ? adminSection === 'notices' ? '메인 페이지 안내' : '월별 운영과 평가 현황' : view === 'ai' ? '담당 그룹의 AI 검색 결과' : '내 출원과 문헌 평가'}</p><h1>{title}</h1><p className="ev-lead">{admin ? activeAdmin.description : view === 'ai' ? '담당 출원의 전문을 준비하고, 외부 AI 도구에서 찾은 문헌을 등록하세요.' : '대상을 선정하고, 공개된 AI 검색 결과를 검토하세요.'}</p></div>{!(admin && adminSection === 'notices') && <div className="ev-month"><select className="krds-form-select" aria-label="운영월" value={monthId} onChange={(event) => navigate(() => setMonthId(event.target.value))}>{state.months.map((candidate) => <option key={candidate.id} value={candidate.id}>{monthLabel(candidate.id)}</option>)}</select><Badge color={month?.closed ? 'orange' : 'green'}>{month?.closed ? '마감' : '운영 중'}</Badge></div>}</div>
           {!admin && <BureauNotice notice={state.notice} bureau={bureau} />}{state.isDemo && !(admin && adminSection === 'notices') && <div className="ev-notice warning">가상 검증 자료입니다. 출원·문헌번호와 사용자, 평가 실적은 실제 자료가 아닙니다.</div>}
           {month?.closed && !(admin && adminSection === 'notices') && <div className="ev-notice warning"><p>이 운영월은 마감되었습니다. 자료를 보거나 내려받을 수 있습니다. 수정하려면 운영을 재개방해야 합니다.</p>{admin && adminSection !== 'overview' && <button className="krds-btn medium ev-button" style={{ marginTop: 10 }} onClick={() => navigate(() => { setAdminSection('overview'); setView('stats'); })}>운영 현황에서 재개방</button>}</div>}
-          {month && (admin ? <AdminWorkspace key={`${bureau || 'legacy'}:${monthId}:${loadSerial}`} bureau={bureau} state={state} month={month} save={save} busy={busy} dirty={setDirty} hasUnsaved={dirty} section={adminSection} onNavigate={(section) => navigate(() => { setAdminSection(section); setView(section === 'overview' ? 'stats' : 'settings'); })} selectMonth={setMonthId} notify={setNotice} /> : user && view === 'ai' && user.roles.includes('ai') ? <AIWorkspace key={`${bureau || 'legacy'}:${userId}:${monthId}:${loadSerial}`} bureau={bureau} state={state} month={month} save={save} busy={busy} dirty={setDirty} user={user} notify={setNotice} /> : user ? <ReviewWorkspace key={`${bureau || 'legacy'}:${userId}:${monthId}:${loadSerial}`} bureau={bureau} state={state} month={month} save={save} busy={busy} dirty={setDirty} user={user} notify={setNotice} /> : null)}
+          {month && (admin ? <AdminWorkspace key={`${bureau || 'legacy'}:${monthId}:${loadSerial}`} bureau={bureau} state={state} month={month} save={save} busy={busy} dirty={setDirty} hasUnsaved={dirty} section={adminSection} onNavigate={(section) => navigate(() => { setAdminSection(section); setView(section === 'overview' ? 'stats' : 'settings'); })} selectMonth={setMonthId} notify={setNotice} saveFeedback={errorFeedback} /> : user && view === 'ai' && user.roles.includes('ai') ? <AIWorkspace key={`${bureau || 'legacy'}:${userId}:${monthId}:${loadSerial}`} bureau={bureau} state={state} month={month} save={save} busy={busy} dirty={setDirty} user={user} notify={setNotice} /> : user ? <ReviewWorkspace key={`${bureau || 'legacy'}:${userId}:${monthId}:${loadSerial}`} bureau={bureau} state={state} month={month} save={save} busy={busy} dirty={setDirty} user={user} notify={setNotice} /> : null)}
         </>}
       </div></main>
   </div></div>;

diff --git a/app/evaluation/admin.css b/app/evaluation/admin.css
@@ -119,9 +119,57 @@
 .adm-inset { padding:20px 24px; }
 .adm-demo { margin:0; }
 .adm-demo p { margin:8px 0 16px; }
+.adm-ai-intro { display:grid; gap:8px; padding:20px 24px; border:1px solid var(--ev-line); border-radius:12px; background:#fff; font-size:16px; line-height:1.7; }
+.adm-ai-intro > p:first-child { color:var(--ev-ink); font-size:18px; }
+.adm-ai-summary { display:flex; flex-wrap:wrap; gap:8px 24px; color:var(--ev-muted); font-size:15px; }
+.adm-ai-summary strong { color:var(--ev-ink); }
+.adm-ai-catalog { display:grid; gap:16px; min-width:0; }
+.adm-ai-catalog-head { display:flex; align-items:center; justify-content:space-between; gap:16px; }
+.adm-ai-catalog-head h2,.adm-ai-comparisons h2 { font-size:21px; }
+.adm-ai-catalog-head .adm-secondary { margin:0; }
+.adm-ai-grid { display:grid; grid-template-columns:repeat(3,minmax(0,1fr)); gap:16px; }
+.adm-ai-card { display:grid; align-content:start; gap:12px; min-width:0; padding:24px; border:1px solid var(--ev-line); border-radius:12px; color:var(--ev-ink); background:#fff; text-align:left; font:inherit; cursor:pointer; overflow-wrap:anywhere; }
+.adm-ai-card:hover:not(:disabled) { border-color:var(--krds-color-light-primary-50); background:var(--krds-color-light-primary-5); }
+.adm-ai-card.is-inactive { background:var(--krds-color-light-gray-5); }
+.adm-ai-card:disabled,.adm-ai-comparison:disabled { cursor:wait; }
+.adm-ai-card:focus-visible,.adm-ai-comparison:focus-visible { outline:3px solid var(--krds-color-light-primary-50); outline-offset:3px; }
+.adm-ai-card-top { display:flex; align-items:center; justify-content:space-between; gap:12px; }
+.adm-ai-mark { display:grid; place-items:center; width:44px; height:44px; border-radius:10px; color:var(--krds-color-light-primary-70); background:var(--krds-color-light-primary-5); font-size:17px; font-weight:700; }
+.adm-ai-name { color:var(--ev-ink); font-size:25px; line-height:1.5; }
+.adm-ai-month { color:var(--ev-muted); font-size:15px; }
+.adm-ai-month.is-included { color:var(--krds-color-light-primary-60); font-weight:600; }
+.adm-ai-card .adm-secondary { margin:0; }
+.adm-ai-edit { display:flex; justify-content:space-between; align-items:center; gap:12px; margin-top:4px; color:var(--krds-color-light-primary-60); font-size:15px; font-weight:600; }
+.adm-ai-comparisons { display:grid; gap:16px; margin-top:8px; padding:24px; border:1px solid var(--ev-line); border-radius:12px; background:var(--krds-color-light-gray-5); }
+.adm-ai-comparison-list { display:grid; gap:12px; }
+.adm-ai-comparison { display:flex; align-items:center; flex-wrap:wrap; gap:12px; min-height:64px; padding:16px; border:1px solid var(--ev-line); border-radius:8px; color:var(--ev-ink); background:#fff; text-align:left; font:inherit; cursor:pointer; overflow-wrap:anywhere; }
+.adm-ai-comparison .adm-ai-edit { margin:0 0 0 auto; }
+.adm-form-modal.adm-ai-modal { width:min(600px,100%); }
+@media(max-width:1100px) { .adm-ai-grid { grid-template-columns:repeat(2,minmax(0,1fr)); } }
+.adm-account-list .adm-list-item { grid-template-columns:minmax(180px,1fr) minmax(180px,1.25fr) minmax(160px,1fr); align-items:center; gap:20px; }
+.adm-form-modal { display:flex; flex-direction:column; width:min(720px,100%); max-height:calc(100dvh - 48px); }
+.ev .adm-form-modal > header { flex-shrink:0; padding:24px; }
+.ev .adm-form-modal > header h2 { font-size:22px; line-height:1.5; overflow-wrap:anywhere; }
+.ev .adm-form-modal > header p { margin-top:8px; color:var(--ev-muted); font-size:15px; line-height:1.7; }
+.ev .adm-form-modal > header > button { width:auto; min-width:64px; min-height:44px; height:auto; flex-shrink:0; border-radius:8px; font-size:16px; }
+.adm-modal-form { display:flex; flex-direction:column; min-height:0; overflow:hidden; }
+.adm-modal-fields { min-height:0; overflow-y:auto; overscroll-behavior:contain; }
+.adm-form-modal .adm-check-list { grid-template-columns:repeat(3,minmax(0,1fr)); }
+.adm-form-modal legend { position:static!important; width:auto!important; height:auto!important; margin:0 0 8px!important; overflow:visible!important; clip:auto!important; white-space:normal!important; }
+.adm-form-modal .adm-actions { flex-shrink:0; margin:0; padding:20px 24px; background:#fff; }
+.adm-modal-feedback .ev-alert { margin:0; }
+.ev-content:has(.adm-form-modal) > .ev-alert[role=alert] { display:none; }
+@media(max-width:800px) { .adm-account-list .adm-list-item { grid-template-columns:minmax(0,1fr); gap:8px; } }
 @media(max-width:1280px) { .adm-metrics { gap:12px; } .adm-metric { padding:20px; } .adm-overview-grid { grid-template-columns:repeat(2,minmax(0,1fr)); } }
 @media(max-width:1120px) { .adm-split { grid-template-columns:minmax(0,1fr); } .adm-list-body { max-height:480px; } }
 @media(max-width:640px) {
+  .adm-ai-grid { grid-template-columns:minmax(0,1fr); }
+  .adm-ai-intro,.adm-ai-card,.adm-ai-comparisons { padding:20px; }
+  .adm-form-modal { max-height:calc(100dvh - 20px); }
+  .ev .adm-form-modal > header,.adm-form-modal .adm-editor-body { padding:20px; }
+  .adm-form-modal .adm-check-list { grid-template-columns:minmax(0,1fr); }
+  .adm-form-modal .adm-actions { padding:16px 20px; }
+  .adm-modal-actions .adm-dirty { flex-basis:100%; }
   .adm { gap:20px; }
   .adm-context,.adm-editor-body,.adm-step-head,.adm-step-body { padding:20px; }
   .adm-editor { padding:0; }

diff --git a/docs/ADMIN_UX_REDESIGN.md b/docs/ADMIN_UX_REDESIGN.md
@@ -15,7 +15,7 @@
 | 업무 | 개편 내용 |
 |---|---|
 | 운영 현황 | 그룹·담당 심사관별 범위 조회, AI 입력 대기·재확인·담당 배정 후속 업무 연결, 진행 상세, 현재 범위 6시트 엑셀, 마감·재개방 |
-| 계정 관리 | 이름·심사과 검색, 역할·활성 필터, 인원 집계, 목록과 신규·수정 편집 패널 분리, 심사국 고정, 미저장 변경·취소 안내 |
+| 계정 관리 | 이름·심사과 검색, 역할·활성 필터, 인원 집계, 넓은 목록과 신규·수정 모달, 심사국 고정, 미저장 변경·취소 안내 |
 | AI 종류 | 이름·활성 상태 검색, AI 목록과 편집 패널, 순위 비교 전용 방식 구분, 등록 후 월별 비교·담당 배정으로 안내 |
 | 그룹 | 그룹 검색·등록·이름 수정, 이달 참여 인원과 AI 담당 배정 표시, 과거 선정 시점의 그룹 정보 보존 안내 |
 | 월별 운영·배정 | 기본 설정 → 비교 AI → 참여 심사관·그룹 → 그룹별 AI 담당자 순서의 4단계. 누락·비활성·역할 변경을 안내하고 수정 중에만 저장바를 고정 |
@@ -27,6 +27,13 @@
 
 ## 검증
 
+- 계정 신규 등록과 기존 소속·역할·활성 상태 수정이 모달에서 저장되고 목록에 반영됨을 격리된 자료로 확인했다.
+- 모달의 이름 필드 초기 포커스, Tab·Shift+Tab 순환, Escape 닫기 및 원래 항목으로 포커스 복원을 확인했다. 미저장 입력 취소와 저장 중 닫기 차단은 UI 테스트에서 검증한다.
+- 동시 저장 충돌(409)을 실제로 재현했다. 모달이 열린 채 입력이 유지되고 오류 영역으로 포커스가 이동하며, 입력 보관·최신 자료 불러오기 버튼이 모달 안에 표시된다. 이 복구 버튼은 폼을 제출하지 않는다.
+- 375×844 화면에서 가로 넘침 없이 모달 내용만 스크롤하고 저장·취소 버튼은 계속 표시됨을 확인했다.
+
+- KRDS 기본 스타일에 가려진 관리 화면 체크 표시를 복원했다. 계정 역할의 24px 체크박스와 실제 체크 상태를 브라우저에서 확인했다.
+
 - 관리자 UI·준비상태·국별 세션·대상 공개공보 테스트, 기존 평가·순위·저장 복구·전문 조회·엑셀 테스트 통과.
 - 실제 격리 D1의 국별 분리·동시 저장·충돌·기존 공용 자료 보존 테스트 통과.
 - PDF 관련 회귀 37개 및 전용 대상 클릭 검증 4개 통과. 서로 다른 두 대상의 URI·파일명과 공개공보 종류를 확인한다.
@@ -37,6 +44,12 @@
 - 375px 관리자 화면에서 페이지 가로 넘침이 없고, 계정 입력 폭이 화면 안에 들어온다. 월별 저장바는 변경 전 정적·변경 중 고정으로 확인했다. 표는 자체 영역에서 스크롤한다.
 
 실기기·화면 읽기 프로그램 사용성 검증과 공개 배포는 수행하지 않았다. 검증 자료는 기존 운영 자료와 분리했다.
+
+![계정 수정 모달](account-edit-modal.png)
+
+[모바일 계정 모달](account-edit-modal-mobile.png)
+
+이전 전체 관리 화면:
 
 ![개편한 계정 관리](admin-ux-desktop.png)
 
